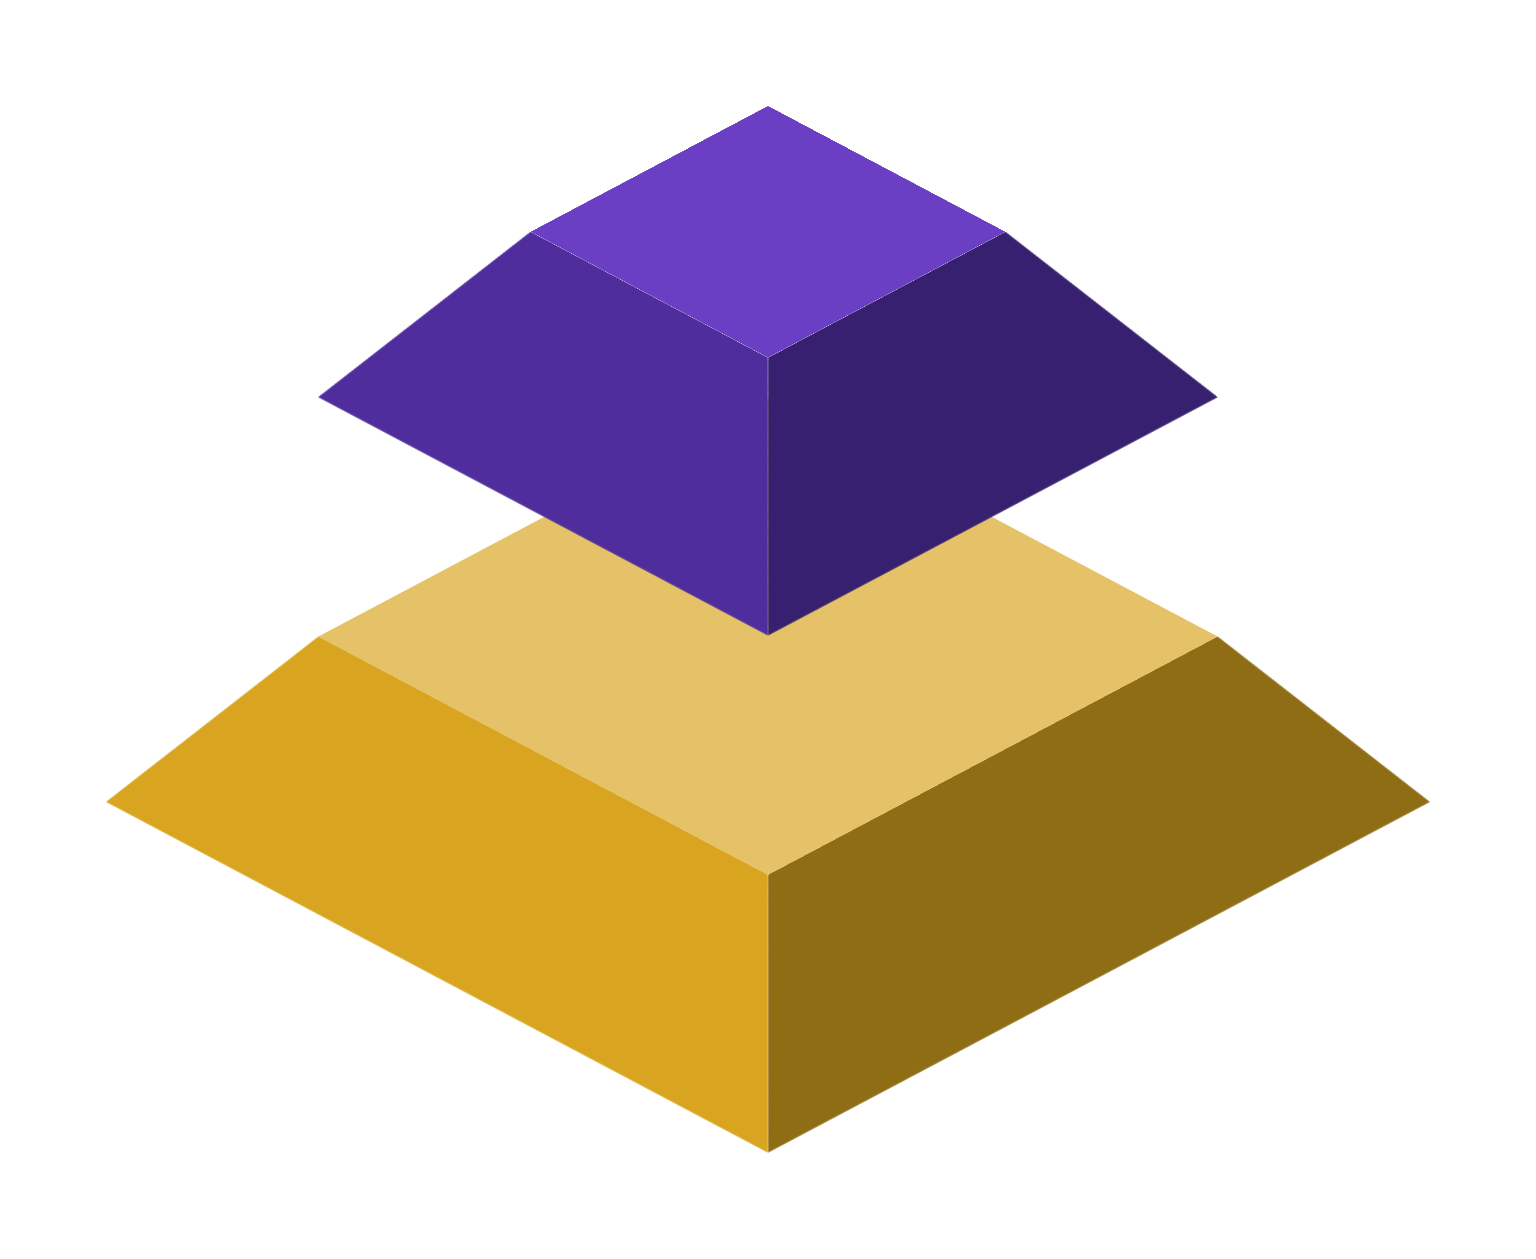
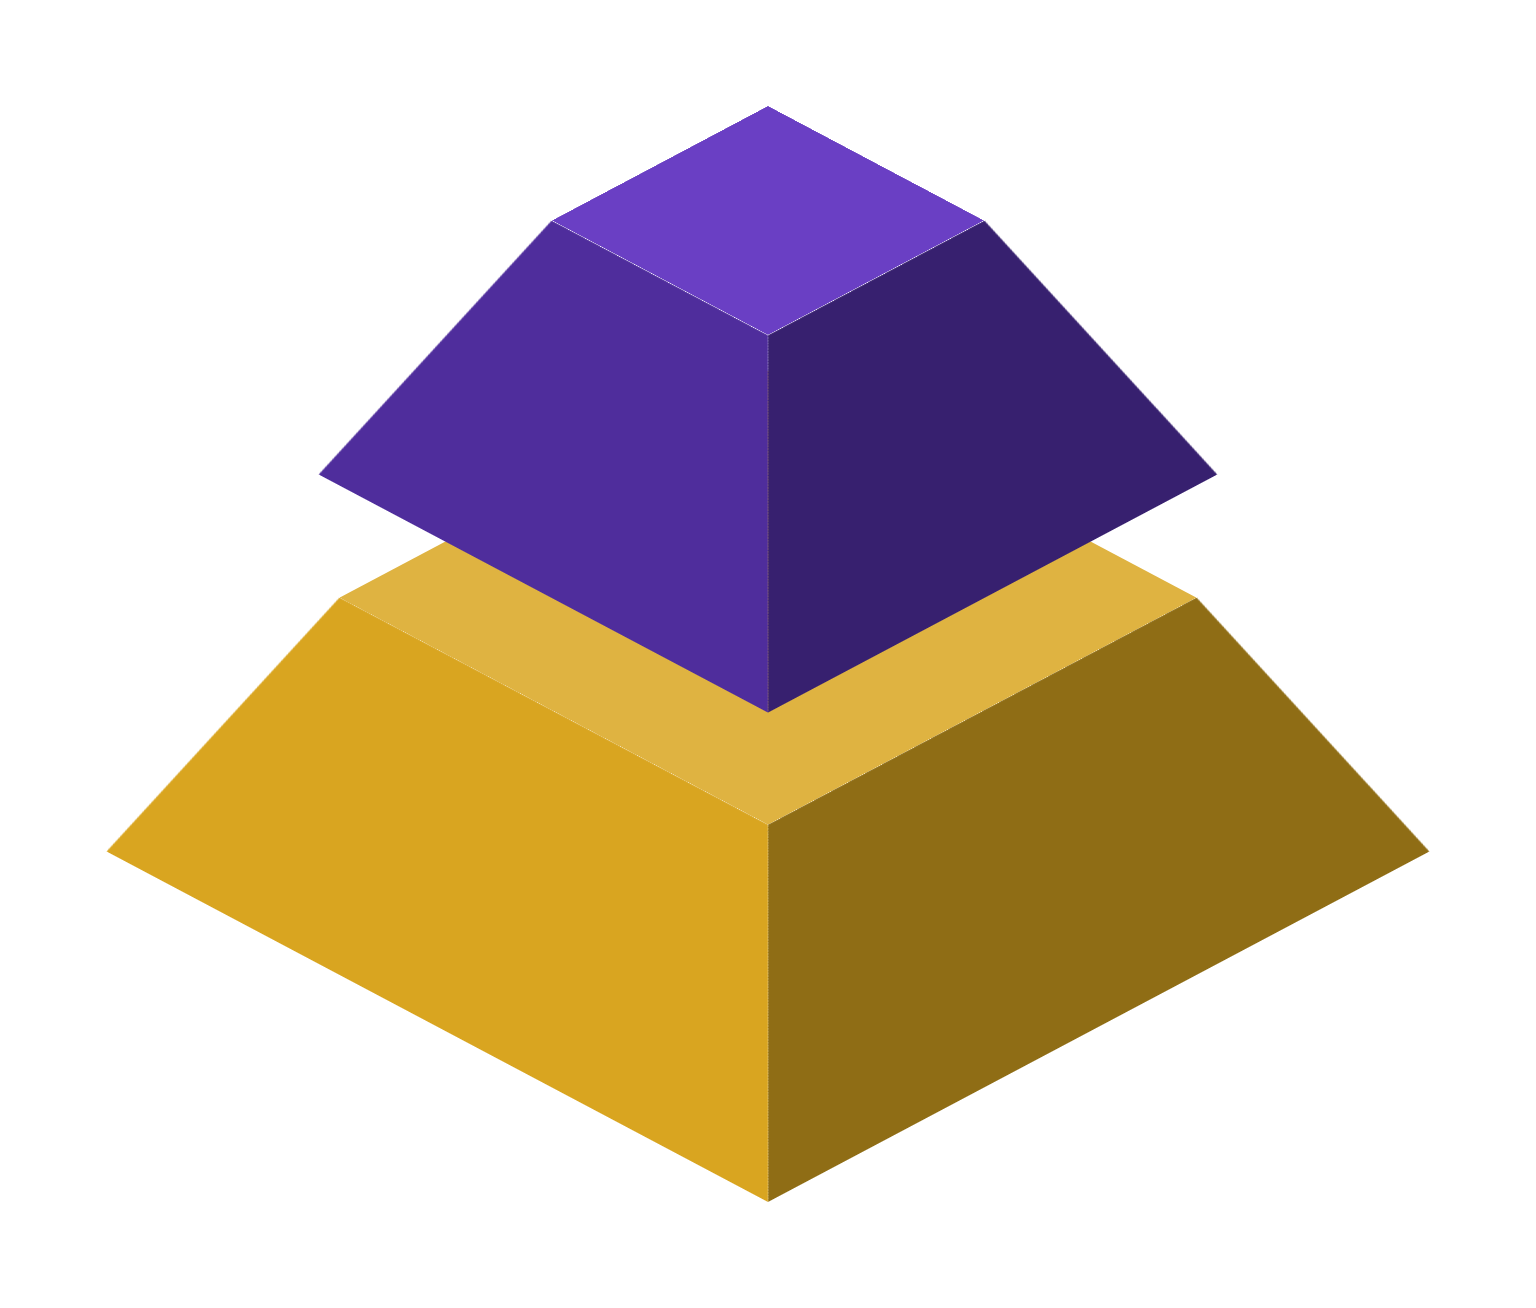
Base-Superstructure stack: taller slabs
Claude-Session: https://claude.ai/code/session_01LgHoU9QwZ5ZurXZhgzwbWe

diff --git a/diagram/index.html b/diagram/index.html
@@ -1911,6 +1911,11 @@
       --taper: 0.55;
     }
 
+    /* (Base-Superstructure's, taller, at the same slope) */
+    .marx-view .st-block {
+      --taper: 0.55;
+    }
+
     /* (its first slab, which slides in and splits, in the infrastructure's
        midnight blue) */
     .structures-view .st-block.st-ghost {
@@ -3871,7 +3876,7 @@
     <div class="structures-alt" role="figure" aria-label="Cultural Materialism, three structures: infrastructure, structure and superstructure"></div>
 
     <section class="marx-view" aria-label="Classical Marxism: Base-Superstructure">
-    <div class="model-save-row model-save-modes"><a class="model-save" href="../assets/downloads/base-superstructure.png?v=9fbeea0a" download="Classical Marxism - Base-Superstructure.png"><svg viewBox="0 0 24 24" fill="none" stroke="currentColor" stroke-width="1.6" stroke-linecap="round" stroke-linejoin="round" aria-hidden="true"><path d="M4 15v3.5A1.5 1.5 0 0 0 5.5 20h13a1.5 1.5 0 0 0 1.5-1.5V15"/><g class="arrow"><path d="M12 4v11"/><path d="M8 11l4 4 4-4"/></g></svg><span>Download diagram</span></a><div class="model-modes" role="group" aria-label="View"><button type="button" data-mode="stack" aria-pressed="true">Stack</button><button type="button" data-mode="diagram" aria-pressed="false">Diagram</button></div></div>
+    <div class="model-save-row model-save-modes"><a class="model-save" href="../assets/downloads/base-superstructure.png?v=42a19dbd" download="Classical Marxism - Base-Superstructure.png"><svg viewBox="0 0 24 24" fill="none" stroke="currentColor" stroke-width="1.6" stroke-linecap="round" stroke-linejoin="round" aria-hidden="true"><path d="M4 15v3.5A1.5 1.5 0 0 0 5.5 20h13a1.5 1.5 0 0 0 1.5-1.5V15"/><g class="arrow"><path d="M12 4v11"/><path d="M8 11l4 4 4-4"/></g></svg><span>Download diagram</span></a><div class="model-modes" role="group" aria-label="View"><button type="button" data-mode="stack" aria-pressed="true">Stack</button><button type="button" data-mode="diagram" aria-pressed="false">Diagram</button></div></div>
       <div class="stack-layout">
         <div class="stack-scene" aria-hidden="true"><div class="st-stack"></div></div>
         <div class="stack-side">
@@ -5009,7 +5014,7 @@
             detail: '<p class="st-detail-name st-detail-name-only">' + L.name + '<span class="name-sep">:</span> ' + L.aka + '</p>' +
               '<p class="st-detail-def">' + L.def + '</p>'
           };
-        }), { SIZE: 312, H: 65, TRIM: 100, STEP: 700, prelude: { n: 1, SIZE: 312, H: 55, TRIM: 30, STEP: 520, taper: 0.77 } });
+        }), { SIZE: 312, H: 100, TRIM: 100, STEP: 700, prelude: { n: 1, SIZE: 312, H: 85, TRIM: 30, STEP: 520, taper: 0.55 } });
       }
       // the two layers, one above the other, and how each acts on the other
       // Base-Superstructure: the stack, or the diagram (and the download
